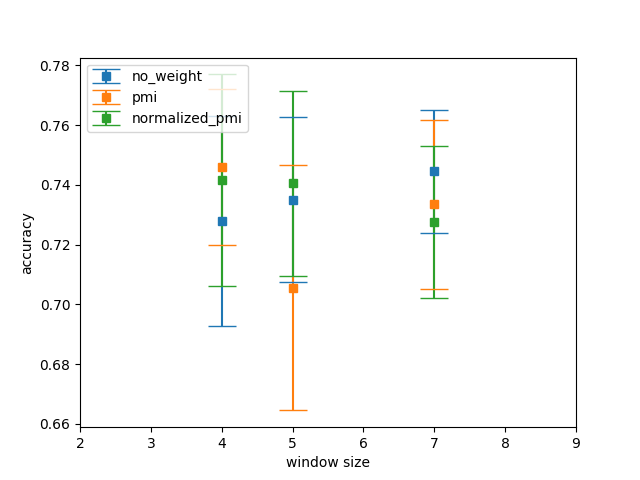
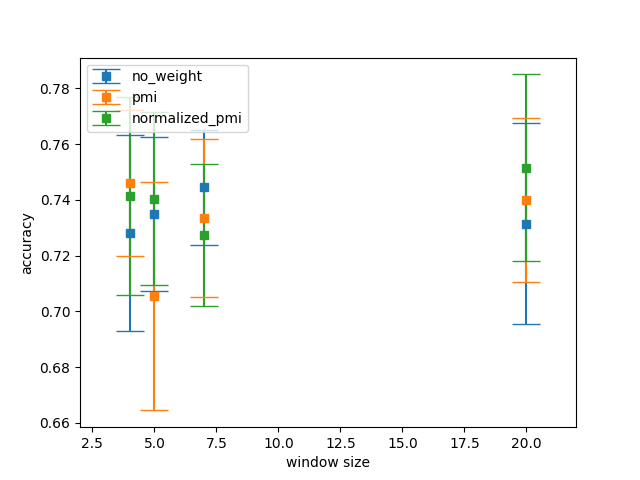
new results

diff --git a/results_main.py b/results_main.py
@@ -57,7 +57,7 @@ def main():
 
     directory = args.dataset + "-" + str(args.emb_dim) + "/"
     strategies = ["no_weight", "pmi", "normalized_pmi"]
-    windows = [4, 5, 7]
+    windows = [4, 5, 7, 20]
     all_res = {"no_weight":[], "pmi":[], "normalized_pmi":[]}
     output = open("plots/" + directory + args.dataset+".txt", "w")
     output_fig = "plots/" + directory + args.dataset+".txt"
